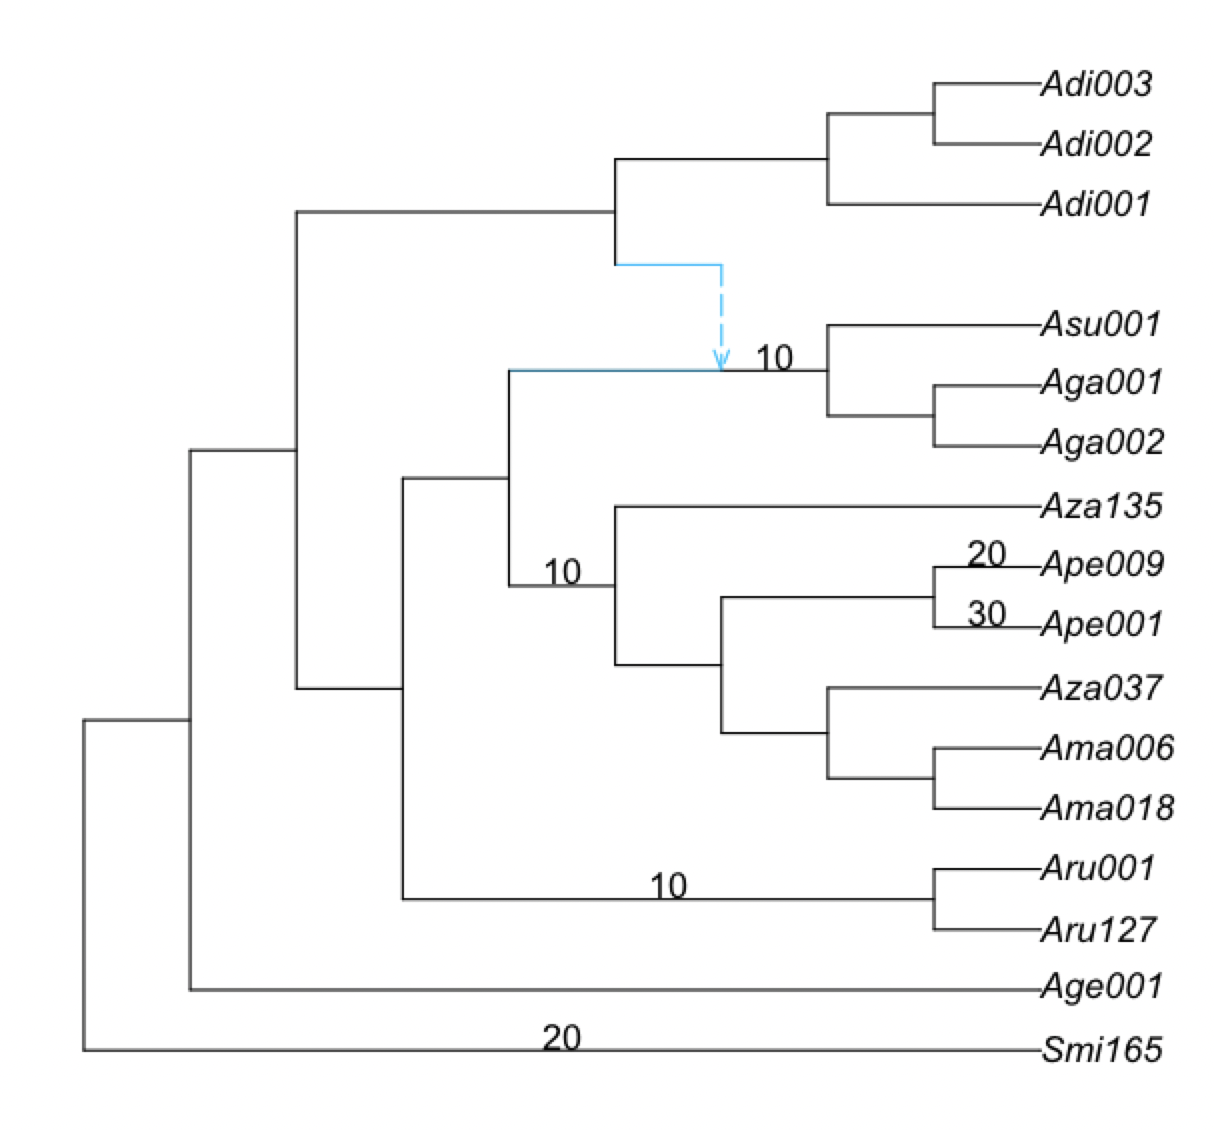
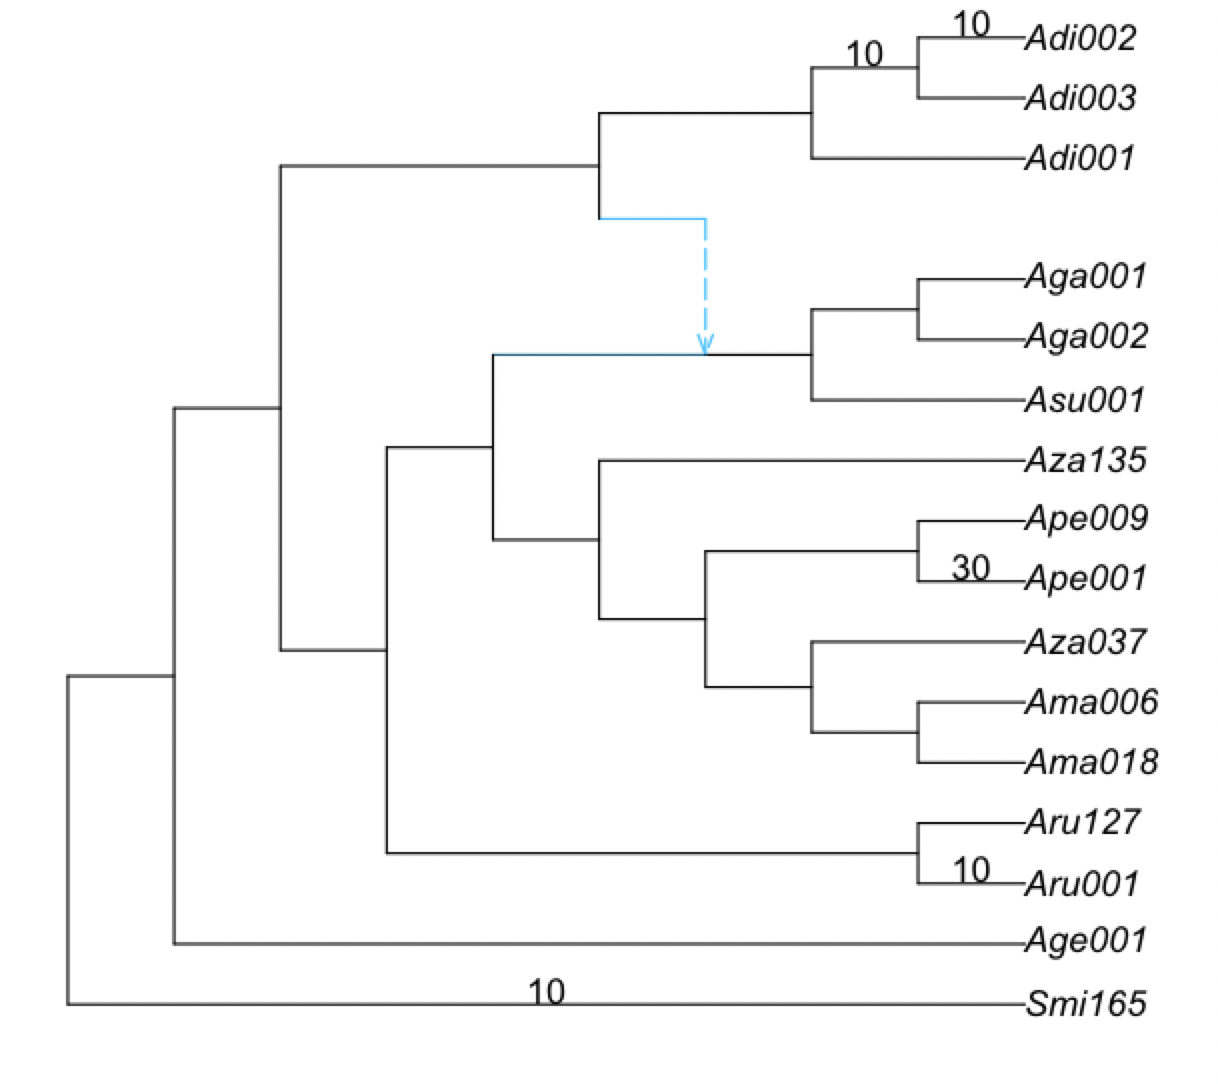
finished bootstrap part on few replicates

Changed region(s): [[0.0305, 0.0, 0.9753, 0.9437]]

diff --git a/lecture-notes/lecture4.md b/lecture-notes/lecture4.md
@@ -144,7 +144,7 @@ SNaQ can infer hybridizations with extinct or unsampled taxa (ghost lineages). T
 
 <div style="text-align:center"><img src="../images/net7taxa-options.png" width="750"/></div>
 
-## Bootstrapping
+# Bootstrapping
 
 You need as input:
 
@@ -153,18 +153,34 @@ You need as input:
   - bootstrap gene trees from RAxML (same format that ASTRAL uses)
 - a starting topology
 
-### 1. Reading in data
+## 1. Reading in data
 
 We will focus on the case of CF credibility intervals:
 
 ```julia
 using CSV, DataFrames
-buckyDat = CSV.read("nexus.CFs.csv", DataFrame) # names like: CF12.34, CF12.34_lo etc.
+buckyDat = CSV.read("nexus.CFs.csv", DataFrame) # names like: CF12_34, CF12_34_lo etc.
 ```
 
-### 2. Running bootstrap
+In this case, the column names are not `CF12_34`, but `CF12.34`, so we need to change the column names:
+
 ```julia
-bootnet = bootsnaq(tre, buckyDat, hmax=1, nrep=10, runs=1,
+buckyDat2 = rename(buckyDat, ["taxon1", "taxon2", "taxon3", "taxon4", 
+ "CF12_34", 
+ "CF12_34_lo",
+ "CF12_34_hi",
+ "CF13_24",
+ "CF13_24_lo",
+ "CF13_24_hi",
+ "CF14_23",
+ "CF14_23_lo",
+ "CF14_23_hi",
+ "ngenes"]) # rename columns
+```
+
+## 2. Running bootstrap
+```julia
+bootnet = bootsnaq(tre, buckyDat2, hmax=1, nrep=10, runs=1,
                    filename="bootsnaq1", ftolRel=1.0e-4, ftolAbs=1.0e-4,liktolAbs = 1.0e-4)
 ```
 
@@ -177,13 +193,13 @@ The options we are using are:
 - `ftolRel=1.0e-4, ftolAbs=1.0e-4,liktolAbs = 1.0e-4`: optimization tolerances chosen so that the run is fast. For your analyses, you do not need to specify these quantities and simply use the defaults 
 
 
-### 3. Bootstrap summary
+## 3. Bootstrap summary
 
 If you close your session after having generated these bootstrap networks, you can
 read them from the output file later, in a new session.
 This output file ends in `.out`, so you would do this:
 ```julia
-bootnet = readMultiTopology("bootsnaq1.out");
+bootnet = readmultinewick("bootsnaq1.out");
 ```
 
 To make summaries, it's best to re-read the reference network (best,
@@ -191,17 +207,17 @@ estimated network) from file, to get a consistent numbering of nodes and edges.
 Here, we re-read from file, re-root the network correctly.
 
 ```julia
-net1 = readTopology("net1_snaq.out")
+net1 = readnewick("net1_snaq.out")
 rootatnode!(net1, "Smi165")
 ```
 
 
-#### 3.1 Bootstrap summary of tree edges
+### 3.1 Bootstrap summary of tree edges
 
 Similarly to how we compute bootstrap support on species trees, we simply count the number of times each edge in the major tree from the estimated network appears in the bootstrap major trees.
 
 ```julia
-BSe_tree, tree1 = treeEdgesBootstrap(bootnet,net1)
+BSe_tree, tree1 = treeedges_support(bootnet,net1)
 ```
 where `tree1` is the major tree in `net1` (the best network estimated with the original data)
 and `BSe_tree` is a data frame with the bootstrap support that each tree edge is found
@@ -213,19 +229,19 @@ julia> show(BSe_tree, allrows=true)
  Row │ edgeNumber  proportion 
      │ Int64       Float64    
 ─────┼────────────────────────
-   1 │          6       100.0
-   2 │         28       100.0
-   3 │          9       100.0
-   4 │         27       100.0
-   5 │         20       100.0
-   6 │         18       100.0
-   7 │         14       100.0
-   8 │         12       100.0
-   9 │         17       100.0
-  10 │         25       100.0
-  11 │         23       100.0
-  12 │         29       100.0
-  13 │         32       100.0
+   1 │          4       100.0
+   2 │         26       100.0
+   3 │          7       100.0
+   4 │         25       100.0
+   5 │         18       100.0
+   6 │         16       100.0
+   7 │         12       100.0
+   8 │         10       100.0
+   9 │         15       100.0
+  10 │         23       100.0
+  11 │         22       100.0
+  12 │         27       100.0
+  13 │         30       100.0
 ```
 
 In this case, all the tree edges have 100% bootstrap support. The following command would allow us to list the edges that do not have 100% bootstrap support (in this case, this data frame is empty):
@@ -240,13 +256,13 @@ The command will only label the edges with
 bootstrap support less than 100%.
 
 ```julia
-plot(net1,  :R, edgeLabel=BSe_tree[BSe_tree[!,:proportion] .< 100.0, :]);
+plot(net1, edgelabel=BSe_tree[BSe_tree[!,:proportion] .< 100.0, :]);
 ```
 
 In this case, the plot is the same as before because all edges have 100% bootstrap support,
 so we do not show it.
 
-#### 3.2 Bootstrap summary of hybridization events
+### 3.2 Bootstrap summary of hybridization events
 
 Summarizing bootstrap support on hybridization events is not straightforward because
 different edges could correspond to the same split in taxa.
@@ -262,7 +278,7 @@ The following function computes the proportion of times that different clades
 appear as hybrid, major sister or minor sister in the bootstrap networks:
 
 ```julia
-BSn, BSe, BSc, BSgam, BSedgenum = hybridBootstrapSupport(bootnet, net1);
+BSn, BSe, BSc, BSgam, BSedgenum = hybridclades_support(bootnet, net1);
 ```
 - `BSn` is a table of bootstrap frequencies associated with **n**odes
 - `BSe` is a table of bootstrap frequencies associated with **e**dges, and
@@ -272,100 +288,96 @@ First, we plot the proportion of times that the major and minor hybrid edges of 
 network appear in the bootstrap networks:
 
 ```julia
-plot(net1, :R, edgeLabel=BSe[!,[:edge,:BS_hybrid_edge]]);
+plot(net1, edgelabel=BSe[!,[:edge,:BS_hybrid_edge]]);
 ```
 
 <div style="text-align:center"><img src="../images/net1-bse.png" width="750"/></div>
 
-In this case, there are only 10% of bootstrap networks that have the major hybrid edge, 
-and 0% bootstrap networks that have the minor hybrid edge. Recall that we only ran 10 bootstrap replicates with 1 run each, so the runs have likely not converged in this case.
+In this case, there are 0% of bootstrap networks that have the major hybrid edge and 0% bootstrap networks that have the minor hybrid edge. Recall that we only ran 10 bootstrap replicates with 1 run each, so the runs have likely not converged in this case.
 
 What do the remaining bootstrap networks have?
 
 ```julia
 julia> BSe
-15×8 DataFrame
- Row │ edge     hybrid_clade  hybrid  sister_clade  sister  BS_hybrid_edge  BS_major  BS_m ⋯
-     │ Int64?   String        Int64?  String        Int64?  Float64         Float64   Floa ⋯
-─────┼──────────────────────────────────────────────────────────────────────────────────────
-   1 │      26  H21               17  c_minus10        -10            10.0      10.0       ⋯
-   2 │      30  H21               17  c_minus3          -3             0.0       0.0
-   3 │ missing  Ape001            11  Ape009            12            30.0      30.0
-   4 │ missing  Ape009            12  Ape001            11            20.0      20.0
-   5 │ missing  Ape009            12  Aza037            10            20.0       0.0       ⋯
-   6 │ missing  Ape001            11  H21              -16            20.0       0.0
-   7 │ missing  Smi165             5  Age001             4            20.0      20.0
-   8 │ missing  Smi165             5  c_minus13        -13            10.0       0.0
-   9 │ missing  Ape001            11  c_minus9          -9            10.0       0.0       ⋯
-  10 │ missing  c_minus10        -10  H21              -16            10.0      10.0
-  11 │ missing  c_minus10        -10  c_minus8          -8            10.0       0.0
-  12 │ missing  H21               17  Age001             4            10.0       0.0
-  13 │ missing  Smi165             5  c_minus12        -12            10.0       0.0       ⋯
-  14 │ missing  c_minus8          -8  c_minus7          -7            10.0      10.0
-  15 │ missing  c_minus8          -8  Ama006             9            10.0       0.0
+16×8 DataFrame
+ Row │ edge     hybrid_clade  hybrid   sister_clade  sister  BS_hybrid_edge  BS_major  BS_minor 
+     │ Int64?   String        Int64?   String        Int64?  Float64         Float64   Float64  
+─────┼──────────────────────────────────────────────────────────────────────────────────────────
+   1 │      24  H17                15  c_minus10        -10             0.0       0.0       0.0
+   2 │      28  H17                15  c_minus3          -3             0.0       0.0       0.0
+   3 │ missing  Ape001              9  Ape009            10            30.0      30.0       0.0
+   4 │ missing  Ape001              9  H17              -16            30.0       0.0      30.0
+   5 │ missing  c_34          missing  Aza135            11            20.0      20.0       0.0
+   6 │ missing  c_34          missing  Ape001             9            20.0       0.0      20.0
+   7 │ missing  Smi165              2  Age001             3            10.0      10.0       0.0
+   8 │ missing  Smi165              2  Ama006             7            10.0       0.0      10.0
+   9 │ missing  Adi002             17  Adi003            16            10.0      10.0       0.0
+  10 │ missing  Adi002             17  Aru001             4            10.0       0.0      10.0
+  11 │ missing  c_35          missing  c_minus8          -8            10.0      10.0       0.0
+  12 │ missing  c_35          missing  H17              -16            10.0       0.0      10.0
+  13 │ missing  c_minus2           -2  Adi001             1            10.0      10.0       0.0
+  14 │ missing  c_minus2           -2  Ama018             6            10.0       0.0      10.0
+  15 │ missing  Aru001              4  Aru127             5            10.0      10.0       0.0
+  16 │ missing  Aru001              4  Age001             3            10.0       0.0      10.0
 ```
 
-We can understand the meaning of each column with `? hybridBootstrapSupport` in julia.
+We can understand the meaning of each column with `? hybridclade_support` in julia.
 We can see, for example, that in 30% of the bootstrap networks there is a hybrid edge 
 from `Ape001` to `Ape009`. Because `BS_major` is also 30, we conclude that this edge appears as the major hybrid edge in 30% of the bootstrap networks. We note that this edge does not appear in the estimated network (`net1`) since the column `edge` is `missing`.
 
-Sometimes, there is not a taxon name, but a clade, like `c_minus10`, for example, in the first row. The information of which clade this represents can be found in the `BSc` data frame:
+Sometimes, there is not a taxon name, but a clade, like `c_minus8`. The information of which clade this represents can be found in the `BSc` data frame:
 
 ```julia
 julia> BSc
-16×14 DataFrame
- Row │ taxa    Age001  Smi165  c_minus8  Ama006  c_minus13  Aza037  c_minus12  Ape001  Ape009  c_minus10  H21    c_minus9  c_minus7 
-     │ String  Bool    Bool    Bool      Bool    Bool       Bool    Bool       Bool    Bool    Bool       Bool   Bool      Bool     
-─────┼──────────────────────────────────────────────────────────────────────────────────────────────────────────────────────────────
-   1 │ Adi002   false   false     false   false      false   false      false   false   false      false  false     false     false
-   2 │ Adi003   false   false     false   false      false   false      false   false   false      false  false     false     false
-   3 │ Adi001   false   false     false   false      false   false      false   false   false      false  false     false     false
-   4 │ Age001    true   false     false   false      false   false      false   false   false      false  false     false     false
-   5 │ Smi165   false    true     false   false      false   false      false   false   false      false  false     false     false
-   6 │ Aru127   false   false      true   false      false   false      false   false   false      false  false     false      true
-   7 │ Aru001   false   false      true   false      false   false      false   false   false      false  false     false      true
-   8 │ Ama018   false   false     false   false       true   false       true   false   false       true  false      true      true
-   9 │ Ama006   false   false     false    true       true   false       true   false   false       true  false      true      true
-  10 │ Aza037   false   false     false   false      false    true       true   false   false       true  false      true      true
-  11 │ Ape001   false   false     false   false      false   false      false    true   false       true  false      true      true
-  12 │ Ape009   false   false     false   false      false   false      false   false    true       true  false      true      true
-  13 │ Aza135   false   false     false   false      false   false      false   false   false       true  false      true      true
-  14 │ Aga002   false   false     false   false      false   false      false   false   false      false   true      true      true
-  15 │ Aga001   false   false     false   false      false   false      false   false   false      false   true      true      true
-  16 │ Asu001   false   false     false   false      false   false      false   false   false      false   true      true      true
+16×18 DataFrame
+ Row │ taxa    Adi001  Smi165  Age001  Aru001  Aru127  c_minus8  Ama018  Ama006  Ape001  Ape009  Aza135  H17    c ⋯
+     │ String  Bool    Bool    Bool    Bool    Bool    Bool      Bool    Bool    Bool    Bool    Bool    Bool   B ⋯
+─────┼─────────────────────────────────────────────────────────────────────────────────────────────────────────────
+   1 │ Adi001    true   false   false   false   false     false   false   false   false   false   false  false    ⋯
+   2 │ Smi165   false    true   false   false   false     false   false   false   false   false   false  false
+   3 │ Age001   false   false    true   false   false     false   false   false   false   false   false  false
+   4 │ Aru001   false   false   false    true   false      true   false   false   false   false   false  false
+   5 │ Aru127   false   false   false   false    true      true   false   false   false   false   false  false    ⋯
+   6 │ Ama018   false   false   false   false   false     false    true   false   false   false   false  false
+   7 │ Ama006   false   false   false   false   false     false   false    true   false   false   false  false
+   8 │ Aza037   false   false   false   false   false     false   false   false   false   false   false  false
+   9 │ Ape001   false   false   false   false   false     false   false   false    true   false   false  false    ⋯
+  10 │ Ape009   false   false   false   false   false     false   false   false   false    true   false  false
+  11 │ Aza135   false   false   false   false   false     false   false   false   false   false    true  false
+  12 │ Asu001   false   false   false   false   false     false   false   false   false   false   false   true
+  13 │ Aga002   false   false   false   false   false     false   false   false   false   false   false   true    ⋯
+  14 │ Aga001   false   false   false   false   false     false   false   false   false   false   false   true
+  15 │ Adi003   false   false   false   false   false     false   false   false   false   false   false  false
+  16 │ Adi002   false   false   false   false   false     false   false   false   false   false   false  false
 ```
 
 Or specifically:
 
 ```
-julia> BSc[!,:taxa][BSc[!,:c_minus10]]
-6-element Vector{String}:
- "Ama018"
- "Ama006"
- "Aza037"
- "Ape001"
- "Ape009"
- "Aza135"
+julia> BSc[!,:taxa][BSc[!,:c_minus8]]
+2-element Vector{String}:
+ "Aru001"
+ "Aru127"
 ```
 
-If we look at the estimated network again, this clade represents the major sister clade:
+We can look at the estimated network again to find this clade:
 
 <div style="text-align:center"><img src="../images/net1-snaq.png" width="750"/></div>
 
 and the hybrid clade is:
 
 ```julia
-julia> BSc[!,:taxa][BSc[!,:H21]]
+julia> BSc[!,:taxa][BSc[!,:H17]]
 3-element Vector{String}:
+ "Asu001"
  "Aga002"
  "Aga001"
- "Asu001"
 ```
 
 We can also quantity the proportion of the times that the same hybridization event (same hybrid node with same major and minor hybrid edges) appear in the bootstrap networks.
 
 ```julia
-plot(net1, :R, nodeLabel=BSn[!,[:hybridnode,:BS_hybrid_samesisters]]);
+plot(net1, nodelabel=BSn[!,[:hybridnode,:BS_hybrid_samesisters]]);
 ```
 which in this case (because we did not do enough replicates or enough number of runs) is zero:
 
@@ -374,7 +386,7 @@ which in this case (because we did not do enough replicates or enough number of 
 We can also plot the bootstrap support for hybrid clades, regardless of their sisters. Here, it is shown on the parent edge of each node with positive hybrid support:
 
 ```julia
-plot(net1, :R, edgeLabel=BSn[BSn[!,:BS_hybrid].>0, [:edge,:BS_hybrid]]);
+plot(net1, edgelabel=BSn[BSn[!,:BS_hybrid].>0, [:edge,:BS_hybrid]]);
 ```
 
 <div style="text-align:center"><img src="../images/net1-bsn2.png" width="750"/></div>
